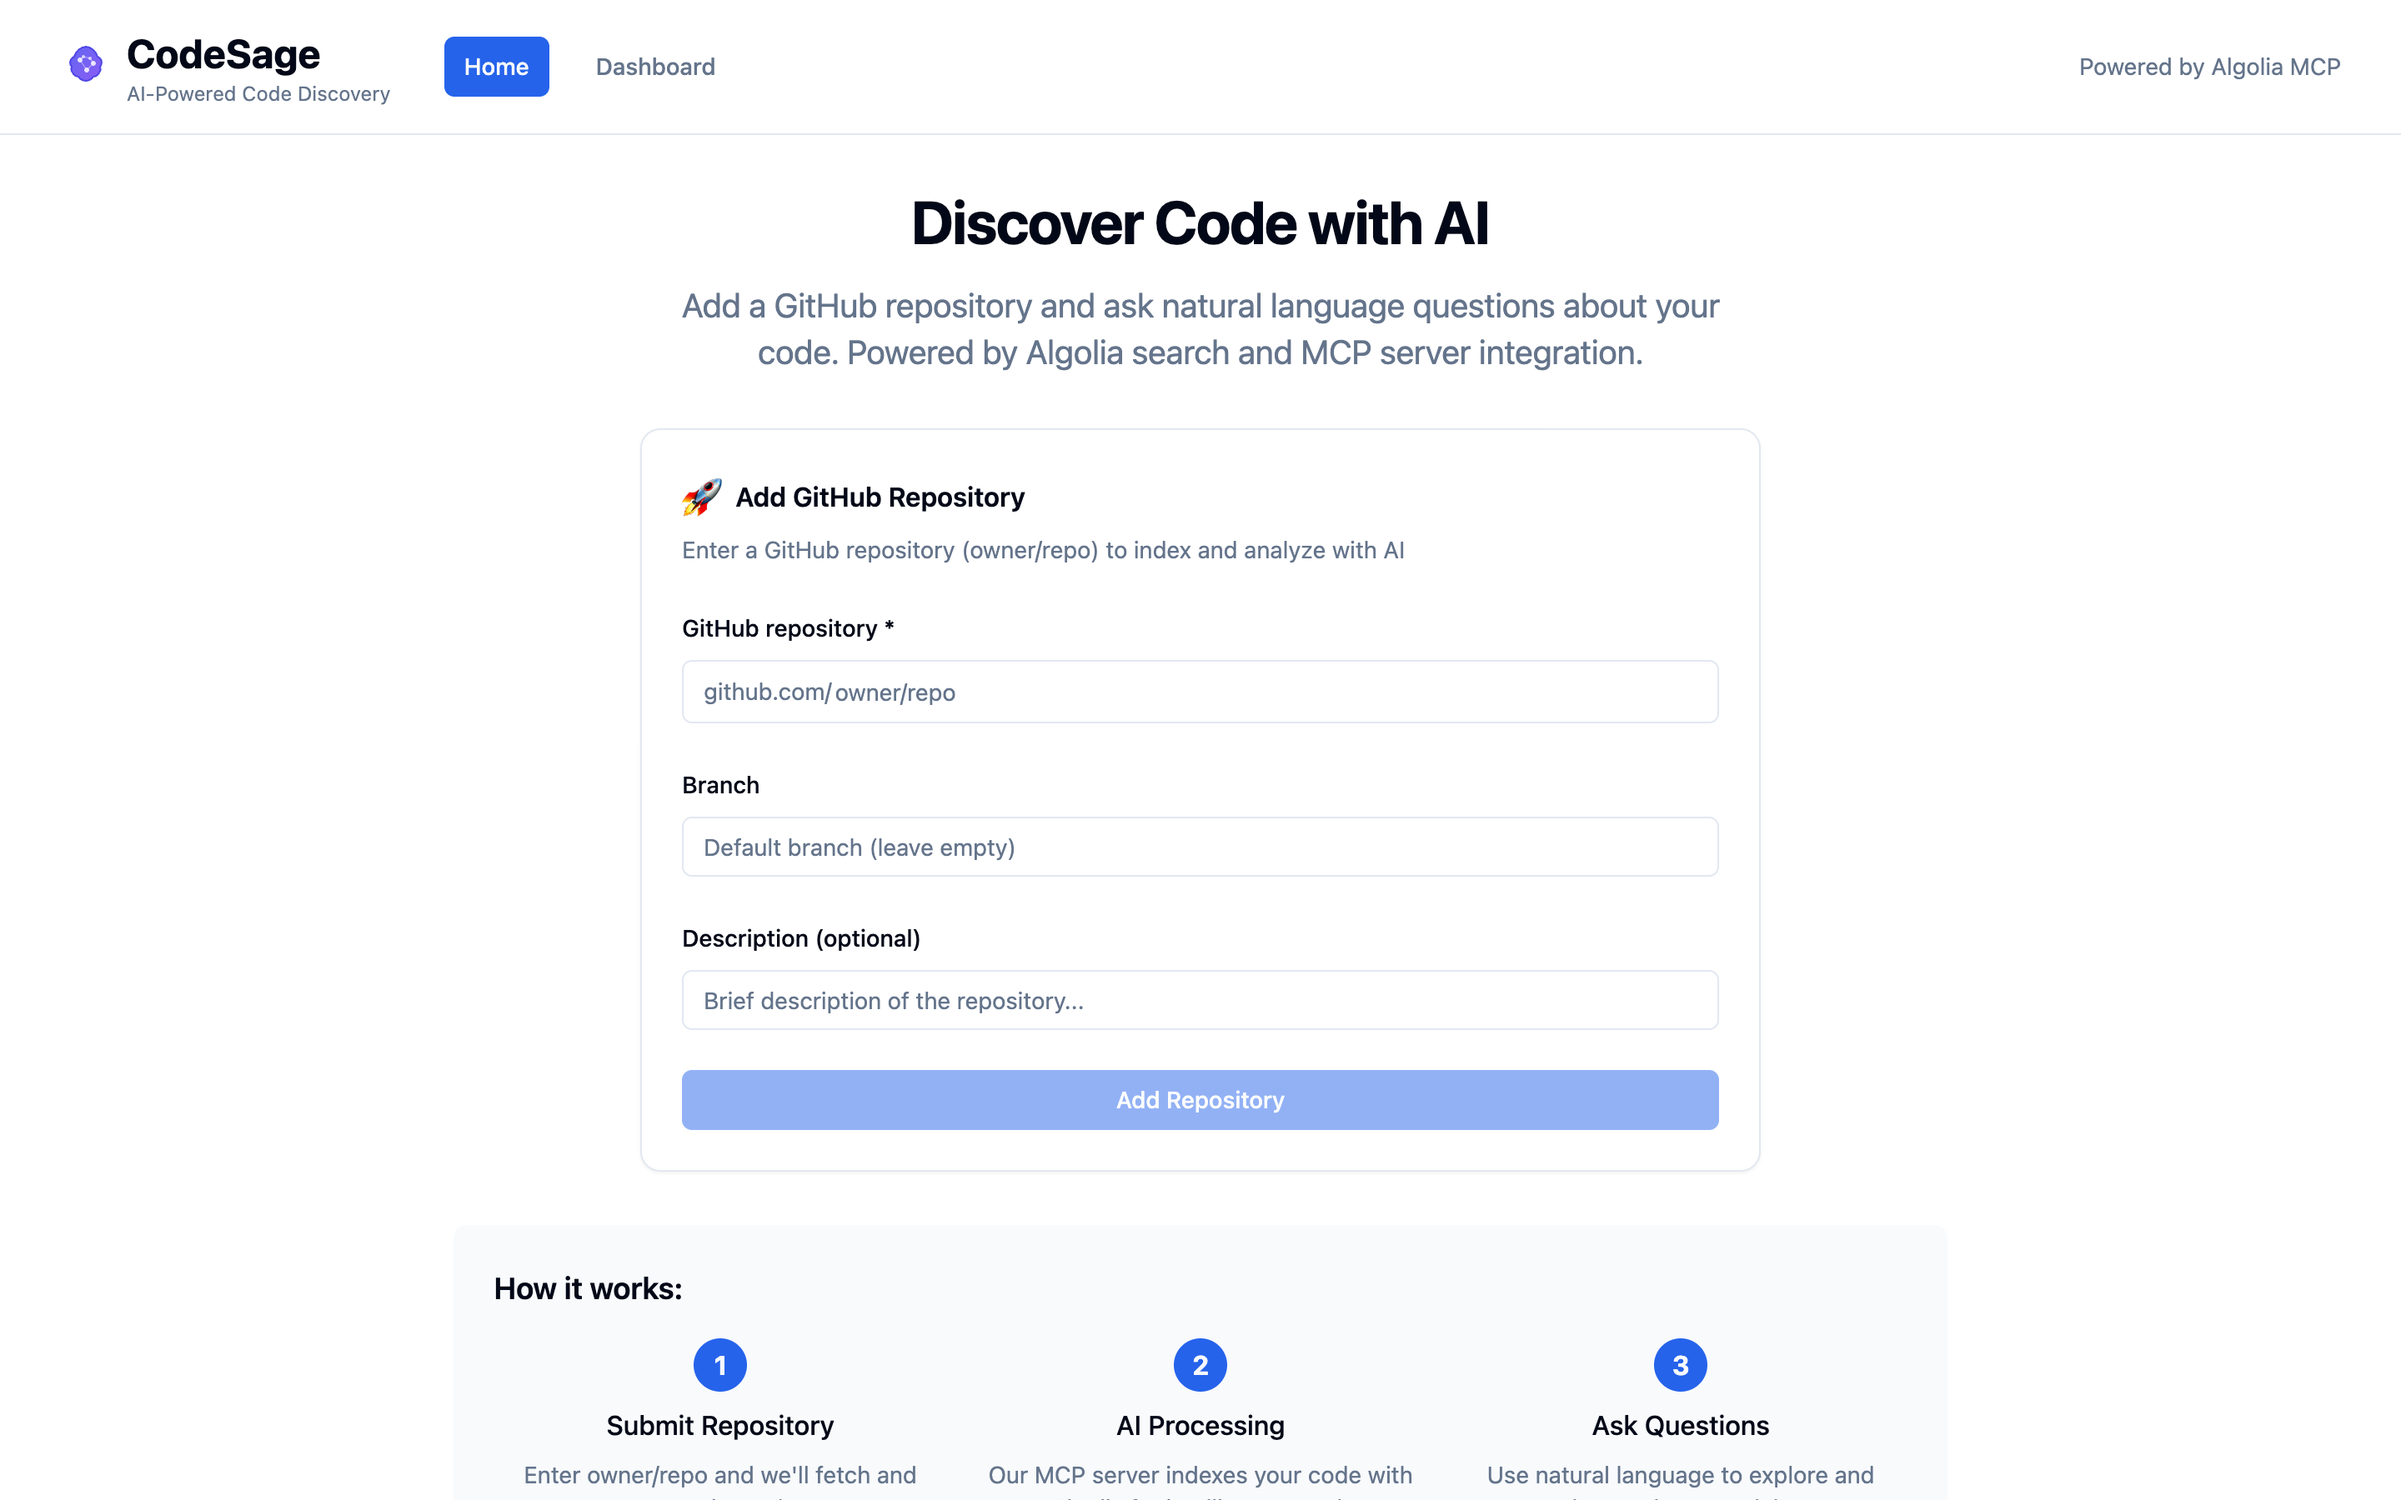
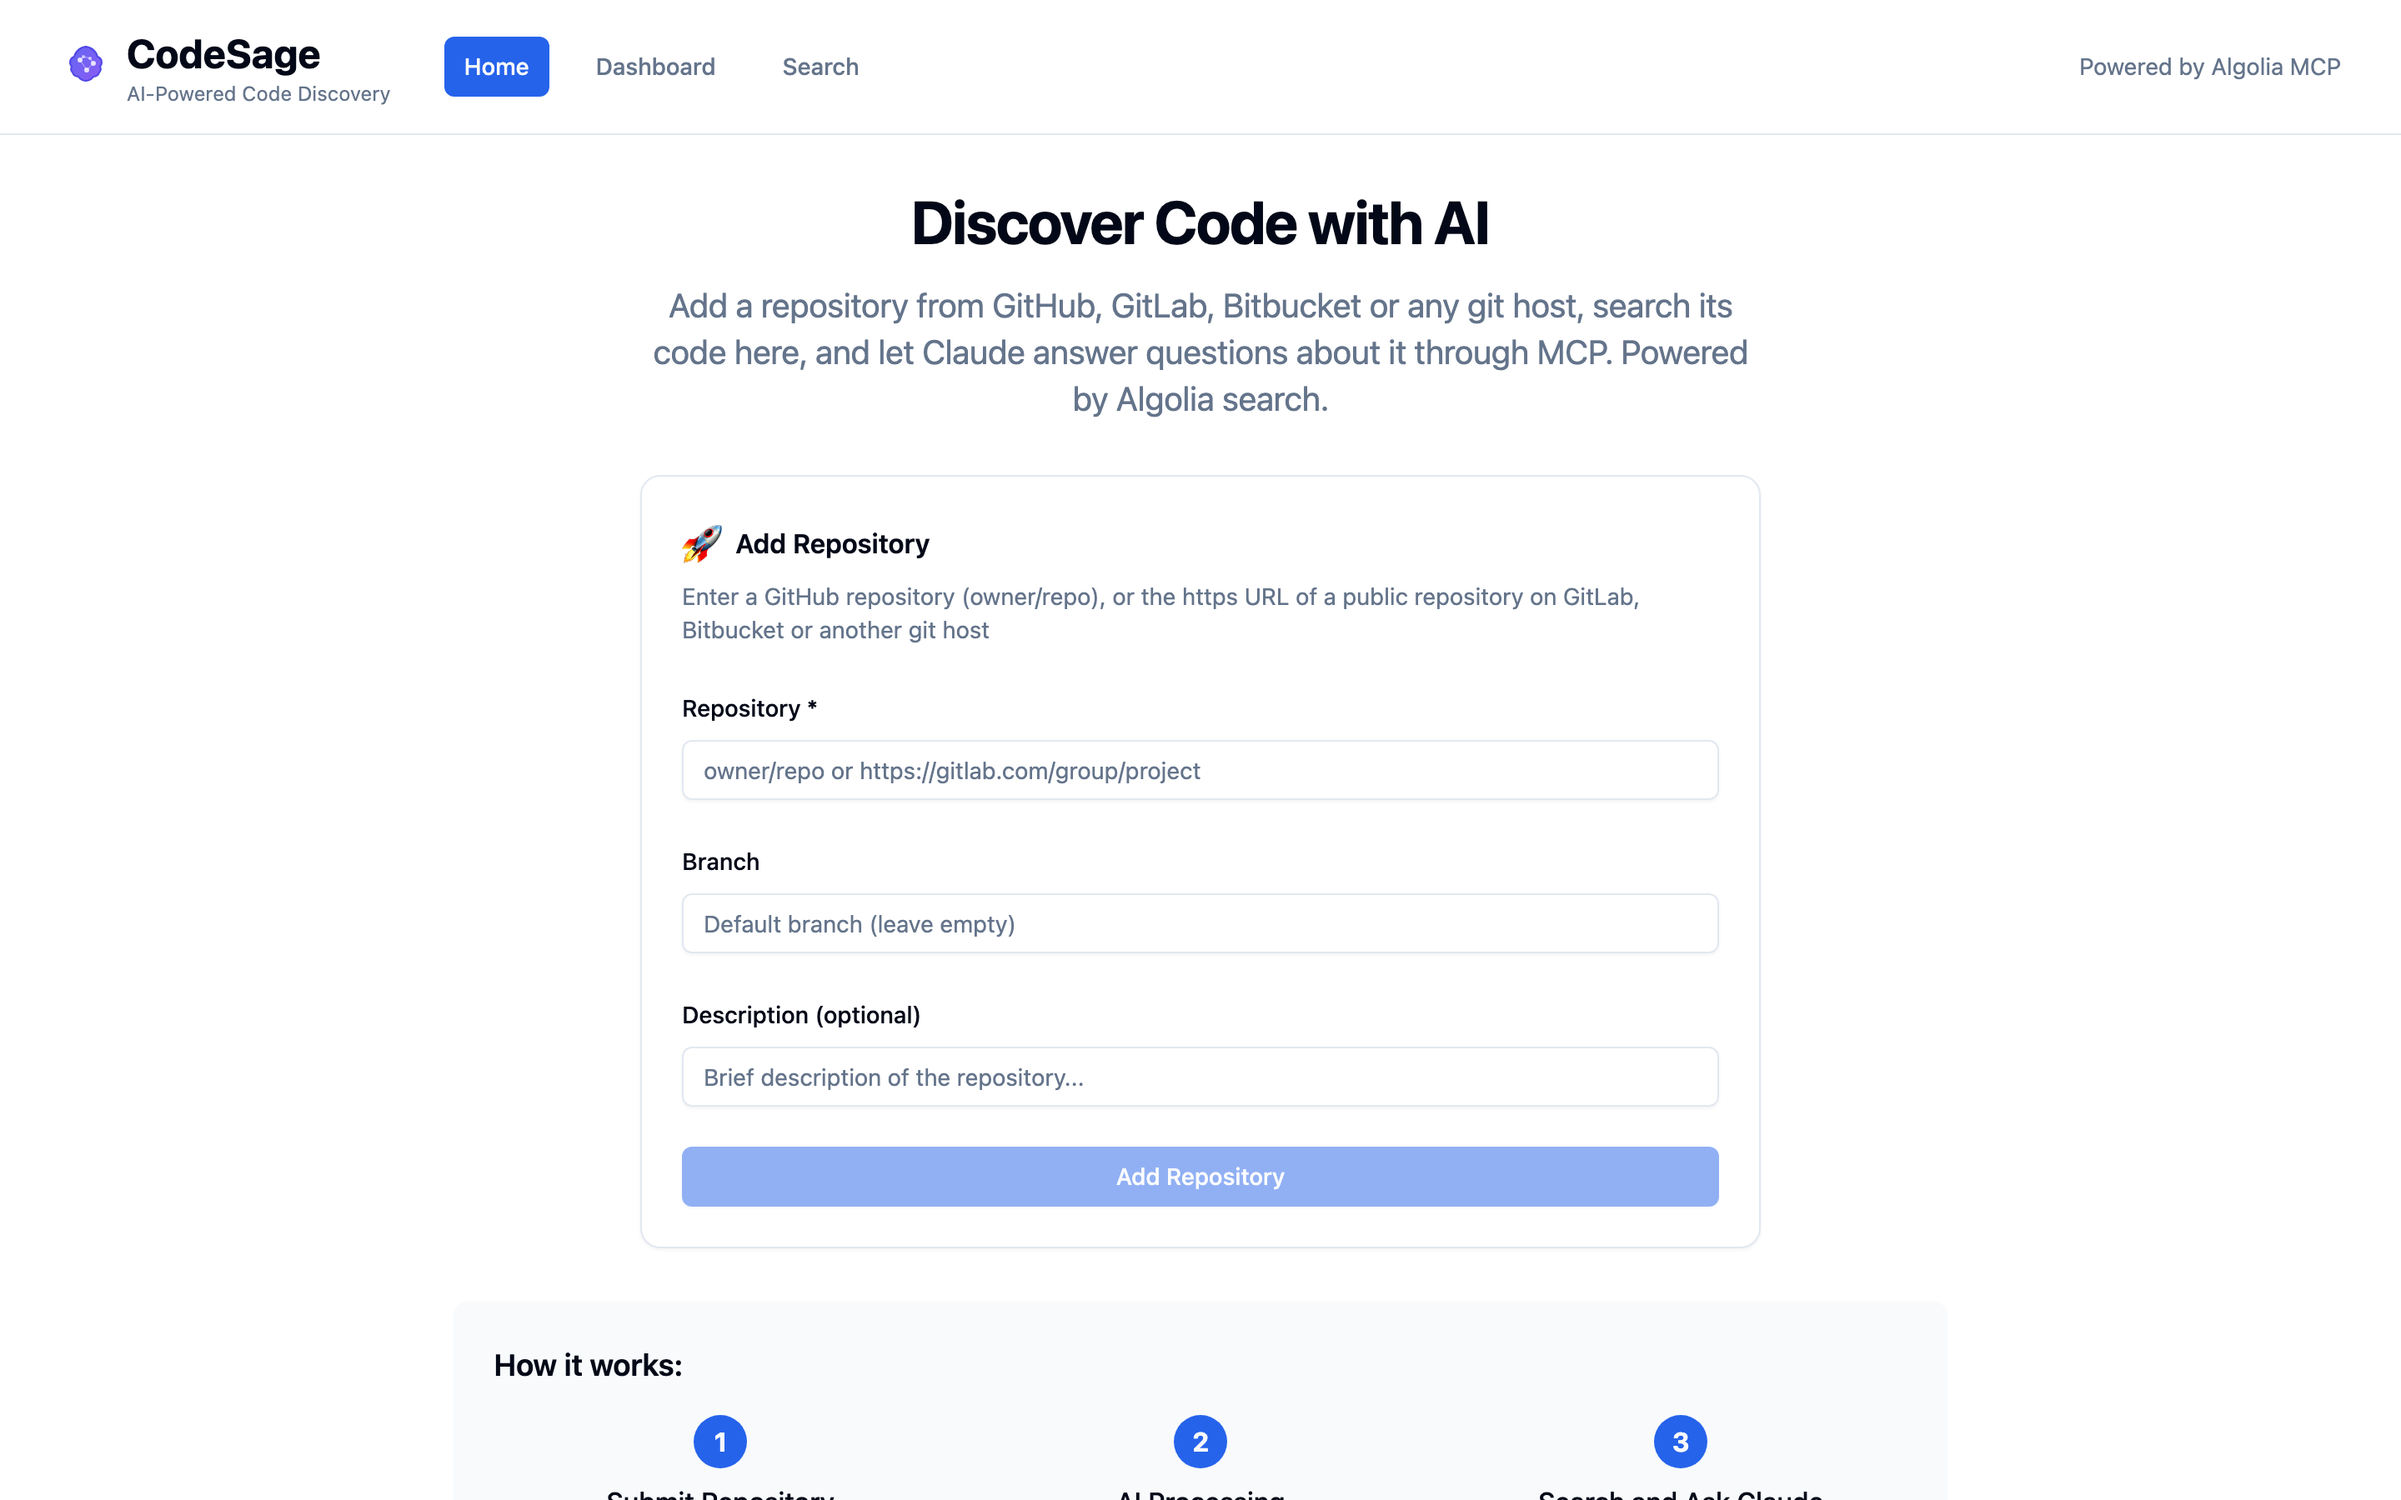
Docs: the dashboard and REST API add repositories from any git host

diff --git a/src/content/docs/docs/guides/other-git-hosts.md b/src/content/docs/docs/guides/other-git-hosts.md
@@ -1,11 +1,11 @@
 ---
 title: Other git hosts
-description: Add public GitLab, Bitbucket and self-hosted repositories through the add_repository tool.
+description: Add public GitLab, Bitbucket and self-hosted repositories from the dashboard, the REST API or the add_repository tool.
 ---
 
-The dashboard and the REST API take github.com only. Claude can also add a public repository from GitLab, Bitbucket or a self-hosted git server by calling the `add_repository` tool. This page covers the URLs it accepts, how the backend reads the repository, the links in search results and every refusal message.
+CodeSage can index a public repository from GitLab, Bitbucket or a self-hosted git server, as well as GitHub. The dashboard's Home form, `POST /api/v1/repositories/` and Claude's `add_repository` tool all take the same URLs and run the same checks. This page covers the URLs they accept, how the backend reads the repository, the links in search results and every refusal message.
 
-Ask Claude something like:
+In the dashboard, paste the URL (for example `https://gitlab.com/group/project`) into the Home page form. Typing `owner/repo` without a host still means GitHub. From Claude, ask something like:
 
 > Add https://gitlab.com/group/project to CodeSage.
 
@@ -13,7 +13,7 @@ Claude calls `add_repository`, which returns `repository_id`, `name`, `status` a
 
 ## Accepted URL forms
 
-The URL must be an `https` URL on a public host. The tool also accepts `http://` (rewritten to `https://`) and `git@host:path` (rewritten to `https://host/path`).
+The URL must be an `https` URL on a public host. The form, the REST API and the tool also accept `http://` (rewritten to `https://`) and `git@host:path` (rewritten to `https://host/path`).
 
 | Host | URL | Result |
 | --- | --- | --- |
@@ -117,7 +117,7 @@ The link points at the commit that was indexed, so its line numbers stay right a
 
 ## Refusal messages
 
-For a non-GitHub URL, `add_repository` returns one of these, and nothing is created. (For github.com URLs, the tool uses GitHub's check and the messages in [the dashboard guide](/docs/guides/web-dashboard/#when-the-server-refuses-a-repository).)
+For a non-GitHub URL the check refuses with one of these, and nothing is created. The dashboard shows it under the repository field, the REST API returns it as `detail`, and `add_repository` returns it as a tool error. (github.com URLs use GitHub's check and the messages in [the dashboard guide](/docs/guides/web-dashboard/#when-the-server-refuses-a-repository).)
 
 | Message | Cause |
 | --- | --- |
@@ -151,7 +151,7 @@ Fix the cause and reprocess from the repository page.
 ## Limits
 
 - **Public only** on every host except github.com.
-- **Not in the dashboard.** The web form and `POST /api/v1/repositories/` refuse other hosts with `422` and a message that the host must be github.com.
+- **Redirects.** git follows a host's first HTTP redirect without re-checking where it points, so a hostile public host could send it to an internal address. Route the backend through an egress proxy that refuses private addresses if that matters.
 - **Tool limits.** `add_repository` needs the API key like every tool call and counts toward the 30 per minute limit.
 - **Clone size.** A shallow clone of a huge repository must finish in 120 seconds and fit the 1000-file and 100 MB selection.
 

diff --git a/src/content/docs/docs/reference/rest-api.md b/src/content/docs/docs/reference/rest-api.md
@@ -231,8 +231,8 @@ Nothing is created when a check fails. The checks run in this order: key, reques
 | `401` | Missing or wrong key |
 | `403` | Request guard refusal |
 | `409` | Duplicate URL, matched case-insensitively. The body is `{"detail": "octo/demo has already been added.", "repository_id": 1}`. A rare race can instead give `{"detail": "Repository with URL https://github.com/octo/demo already exists"}` with no `repository_id` |
-| `422` with a list | Body validation. `loc` is `["body", "url"]`, `["body", "branch"]`, `["body", "name"]` and so on. A URL on another host is `Invalid GitHub URL (host must be github.com): ...` |
-| `422` with a string | The GitHub check refused the repository (see the table below) |
+| `422` with a list | Body validation. `loc` is `["body", "url"]`, `["body", "branch"]`, `["body", "name"]` and so on. A refused URL is `Invalid repository URL (<reason>): ...`, for example a port, credentials, `localhost` or a private address. Any https git host is accepted |
+| `422` with a string | The repository check refused it: GitHub's (see the table below), or `git ls-remote` for other hosts ([Other git hosts](/docs/guides/other-git-hosts/#refusal-messages)) |
 | `429` | Rate limit reached |
 | `502` | GitHub rejected the server's `GITHUB_TOKEN`, answered with a 5xx, or could not be reached |
 | `503` | Algolia is not configured, or GitHub's API rate limit was reached (with `Retry-After`) |
@@ -601,8 +601,8 @@ Request validation failures carry a list. Each entry names the field in `loc`.
     {
       "type": "invalid_url",
       "loc": ["body", "url"],
-      "msg": "Invalid GitHub URL (host must be github.com): https://gitlab.com/group/project",
-      "input": "https://gitlab.com/group/project"
+      "msg": "Invalid repository URL (ports are not supported): https://gitlab.com:8443/group/project",
+      "input": "https://gitlab.com:8443/group/project"
     }
   ]
 }

diff --git a/src/content/docs/docs/troubleshooting.md b/src/content/docs/docs/troubleshooting.md
@@ -31,8 +31,7 @@ Find your symptom in the section for the part that is failing. Messages are quot
 | Symptom | Cause | Fix |
 | --- | --- | --- |
 | Dashboard actions fail with `401`, or an auth notice appears | The key in the dashboard differs from `backend/.env`. The dev bundle reads `VITE_CODESAGE_API_KEY` | Run `make setup` so `frontend/.env` matches, then restart Vite. In Docker dev, re-export `CODESAGE_API_KEY` and run `make build && make up` |
-| Add form shows a message about the URL or branch (`422`) | Not a GitHub repository URL, or an invalid branch name | Use `owner/repo` or a github.com URL. Branch names cannot contain `..` or start with `-` |
-| "Invalid GitHub URL (host must be github.com)" | The dashboard and `POST /api/v1/repositories/` take github.com only | Add other hosts from Claude with the `add_repository` tool |
+| Add form shows a message about the URL or branch (`422`) | Not a repository URL the server accepts (https only, with no port, credentials, `localhost` or private address), or an invalid branch name | Use `owner/repo`, a github.com URL or another host's https URL. Branch names cannot contain `..` or start with `-` |
 | "GitHub repository owner/repo was not found" (`422`) | The repository does not exist, or it is private and `GITHUB_TOKEN` cannot read it | Check the URL. For a private repository, give the token access |
 | "Branch 'x' does not exist in owner/repo." or "owner/repo is empty; there is nothing to index." (`422`) | The branch is missing, or the repository has no content | Fix the branch, or leave it empty for the default |
 | "GitHub denied access to owner/repo." (`422`) | GitHub answered `403` for a reason other than a rate limit | Check the token's access |

diff --git a/src/content/docs/docs/limitations.md b/src/content/docs/docs/limitations.md
@@ -41,7 +41,7 @@ These are limits of the current code, not bugs waiting for a fix. Each row says 
 
 | Limitation | Why | Workaround |
 | --- | --- | --- |
-| **The dashboard and `POST /api/v1/repositories/` take github.com only.** | The REST schema checks the host. Other hosts go through the `add_repository` tool, which the dashboard has no form for | Ask Claude to add the repository. It then appears in the dashboard |
+| **git follows a host's first redirect unchecked** on hosts other than github.com. | The address is checked before git runs, but not where a redirect points | Route the backend through an egress proxy that refuses private addresses |
 | **Other hosts are public only, over https, with no port or credentials.** | Git runs without prompts or a credential helper, so a private repository cannot authenticate | Make the repository public, or mirror it on github.com |
 | **Private repositories work on github.com only**, with one server-wide `GITHUB_TOKEN`. | The token belongs to the server, so every user sees what it can read | Use a token with the narrowest access you can |
 | **Source links exist for GitHub, GitLab and Bitbucket only.** GitLab means `gitlab.com` or a host starting with `gitlab.`. | The link format is host specific | Other hosts get results without a `url` |

diff --git a/src/content/docs/docs/guides/rest-api.md b/src/content/docs/docs/guides/rest-api.md
@@ -446,7 +446,7 @@ A validation error from a bad URL looks like this. The 422 body below and the 40
 ```bash
 curl -sS -X POST $BASE/api/v1/repositories/ \
   -H "Content-Type: application/json" -H "X-API-Key: $CODESAGE_API_KEY" \
-  -d '{"url": "https://gitlab.com/group/project"}'
+  -d '{"url": "https://gitlab.com:8443/group/project"}'
 ```
 
 ```json title="422 Unprocessable Entity"
@@ -455,8 +455,8 @@ curl -sS -X POST $BASE/api/v1/repositories/ \
     {
       "type": "invalid_url",
       "loc": ["body", "url"],
-      "msg": "Invalid GitHub URL (host must be github.com): https://gitlab.com/group/project",
-      "input": "https://gitlab.com/group/project"
+      "msg": "Invalid repository URL (ports are not supported): https://gitlab.com:8443/group/project",
+      "input": "https://gitlab.com:8443/group/project"
     }
   ]
 }
